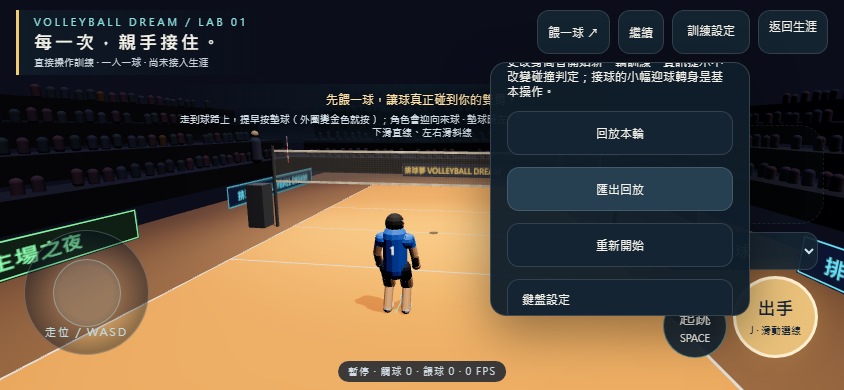
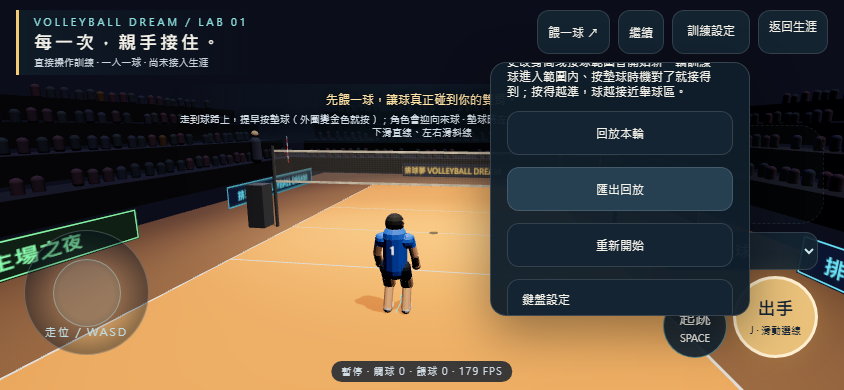
docs(handoff): direct-v7 handoff; delivery harness expects direct-v7
Claude-Session: https://claude.ai/code/session_014M2tb1h6kPn98BFmw7TRC3

Changed region(s): [[0.5853, 0.1538, 0.8626, 0.2462], [0.3697, 0.9231, 0.6161, 0.9846]]

diff --git a/docs/handoffs/direct-play-v7.md b/docs/handoffs/direct-play-v7.md
@@ -1,0 +1,29 @@
+# 直接操作 direct-v7：接球輔助（磁吸＋時機品質＋高低手）
+
+最新接手入口。驗收：`docs/kickoffs/direct-v7-receive-assist-acceptance.md`（A23，含修訂紀錄）。
+
+## 狀態（2026-09-25 22:00）
+- 分支 `feat/receive-assist-v7`（未併 main；main 仍 `f419887`）。已部署試玩：gh-pages `a0108d1`，公開站 `direct-v7 · 2026-09-25 21:57`（`--delivery` 對線上 PASS）。
+- `npm test`：2595 測 2594 過，唯一紅＝A23a（等使用者裁定，見下）。四個瀏覽器治具（full／--pass／--assist／--motion）PASS。
+
+## 做了什麼
+- `src/sim/directReceiveAssist.js`（新）＋`directGame.js`：接球時窗（準備期最後 2 格＋有效 10 格＋收尾 2 格）內，球落到手臂平台高度且水平距離 ≤ 0.5 m（高手：額頭高度、≤ 0.35 m）即算接到。同一格內真實碰到手臂優先，磁吸在每格結束才檢查。
+- 出球：一律吊向舉球區中心 (0, 1.6)，誤差依時機分級（完美 ±2 格 0.35 m／普通 ±4.5 格 1.2 m／差 2.6 m），高手依球速乘 0.6（≤7 m/s）～2.2（≥13 m/s）。差球不會瞄過網（目標 z ≥ 0.4）。左右滑仍偏移目標 ±1.2 m、上下滑改拋物線高度。
+- 練習頁：觸球後大字「完美／普通／差 · 高手／低手」＋顏色；設定裡兩條接球範圍滑桿。落點圈原本就預設開（入門）。
+- 模擬版本升 `direct-v7`（舊錄影不再能重播）。
+
+## 數字（全部案例當分母；`node tools/receive-assist-probe.mjs [chase]`）
+| 組 | 舊 f419887 舉球區／空接 | v7 舉球區／空接 |
+|---|---|---|
+| 真人追球 chase 2646 | 19.6%／31.2% | 33.7%／23.5%（碰網 1.7%） |
+| 正前 1035 | 27.1%／26.8% | 過 A23b（≥38%） |
+| 斜前 2070 | 108 顆 | ≥108（過 A23c） |
+
+## ★待使用者裁定★
+- **A23a chase 舉球區 ≥ 40% 未達（33.7%）**。拆解：chase 的按鍵偏移 −9…+9 格中，偏早 3 格舉球區 72%、0 偏移 71%，偏晚 3/6/9 格只有 7%/13%/6%。測試裡的追球者瞄的觸球高度 0.77 m，實際平台 1.04 m；校準到實際高度後也只有 35.1%。40% 是量之前估的。選項：改門檻、改實作參數（例如拿掉「擦邊降一級」）、或先看手機試玩手感再定。
+- 試玩後手感：磁吸半徑、時機窗寬、誤差大小都在 `RECEIVE_ASSIST`（`src/sim/directConstants.js`）。
+
+## 已知限制
+- 高手接球目前沒有專屬動畫，身體仍是墊球姿勢（只有文字顯示「高手」）。
+- 按太早會直接空接而非判「差」（時窗結束前球還沒到）。
+- 磁吸接球時球不會瞬移到手臂上，最遠會在離手臂 0.5 m 處折返。

diff --git a/docs/handoffs/INDEX.md b/docs/handoffs/INDEX.md
@@ -4,5 +4,6 @@
 - [直接操作動作與四向扣球：direct-v2](direct-play-motion-v2.md) — 恢復原作幾何隊服，實體步態與觸球姿勢，滑動選直線／斜線／吊球。
 - [直接操作接球迎球容錯：direct-v3](direct-play-receive-assist-v3.md) — 墊球時身體小幅迎向來球（±35°、不加衝量、不放大碰撞體），含審查修正紀錄。
 - [直接操作接球平台：direct-v4](direct-play-receive-platform-v4.md) — 平台面法線、中性到位球、左右滑改平台方向、迎球面向來球路線＋側伸、平台線與時機提示、接球方向練習；上下滑暫停用。
-- [直接操作 direct-v6](direct-play-v6.md) — 球打到兩臂內側照平台正面反彈；斜前快跑落身後的成因已查清；最新接手入口。
+- [直接操作 direct-v7](direct-play-v7.md) — 接球磁吸＋按鍵時機決定品質＋依高度自動高低手；最新接手入口（A23a 待裁）。
+- [直接操作 direct-v6](direct-play-v6.md) — 球打到兩臂內側照平台正面反彈；斜前快跑落身後的成因已查清。
 - [直接操作 direct-v5](direct-play-v5.md) — 往前跑著墊球不推進網、按下即出手（點擊停留測試）、接球自動轉身固定半自動 45°。
